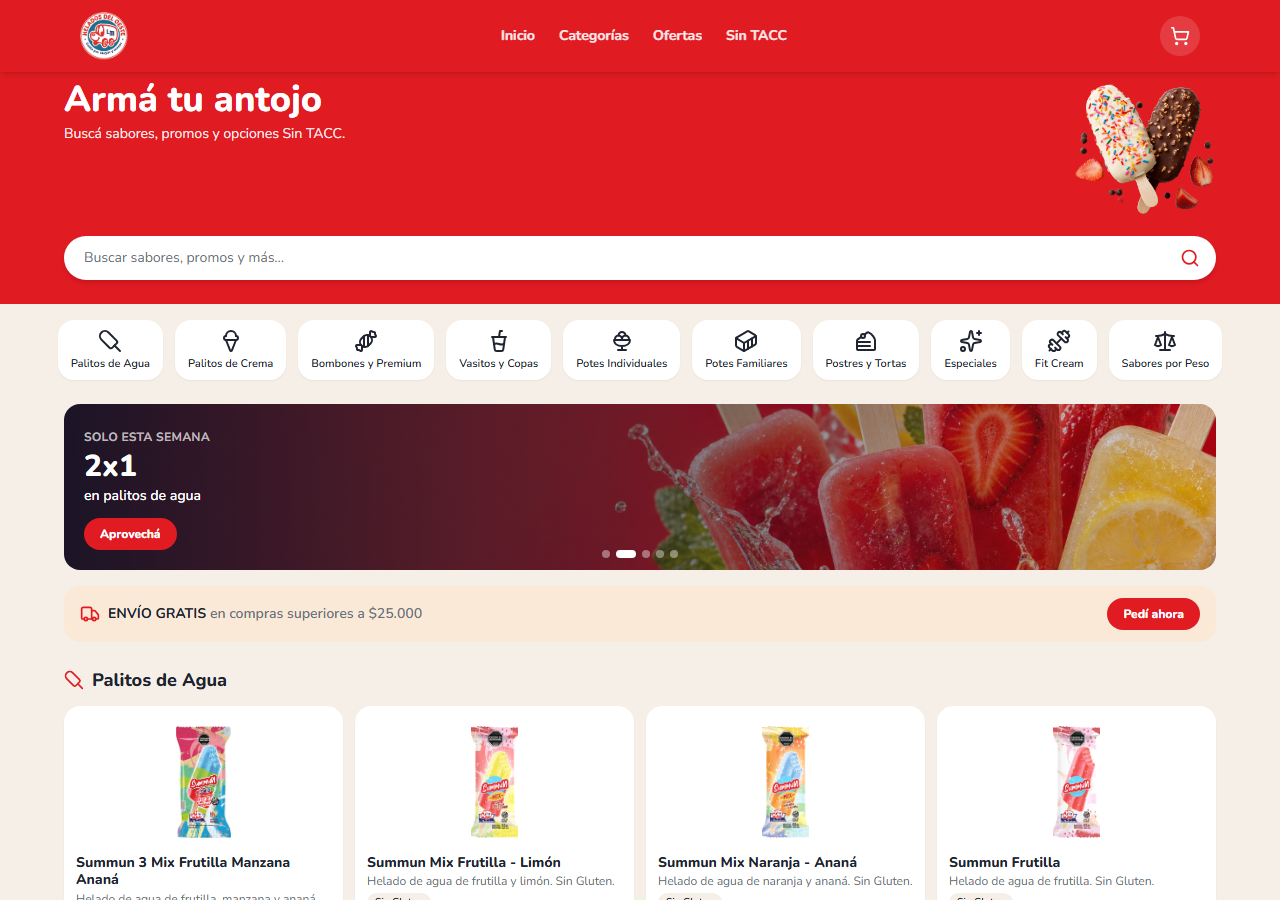
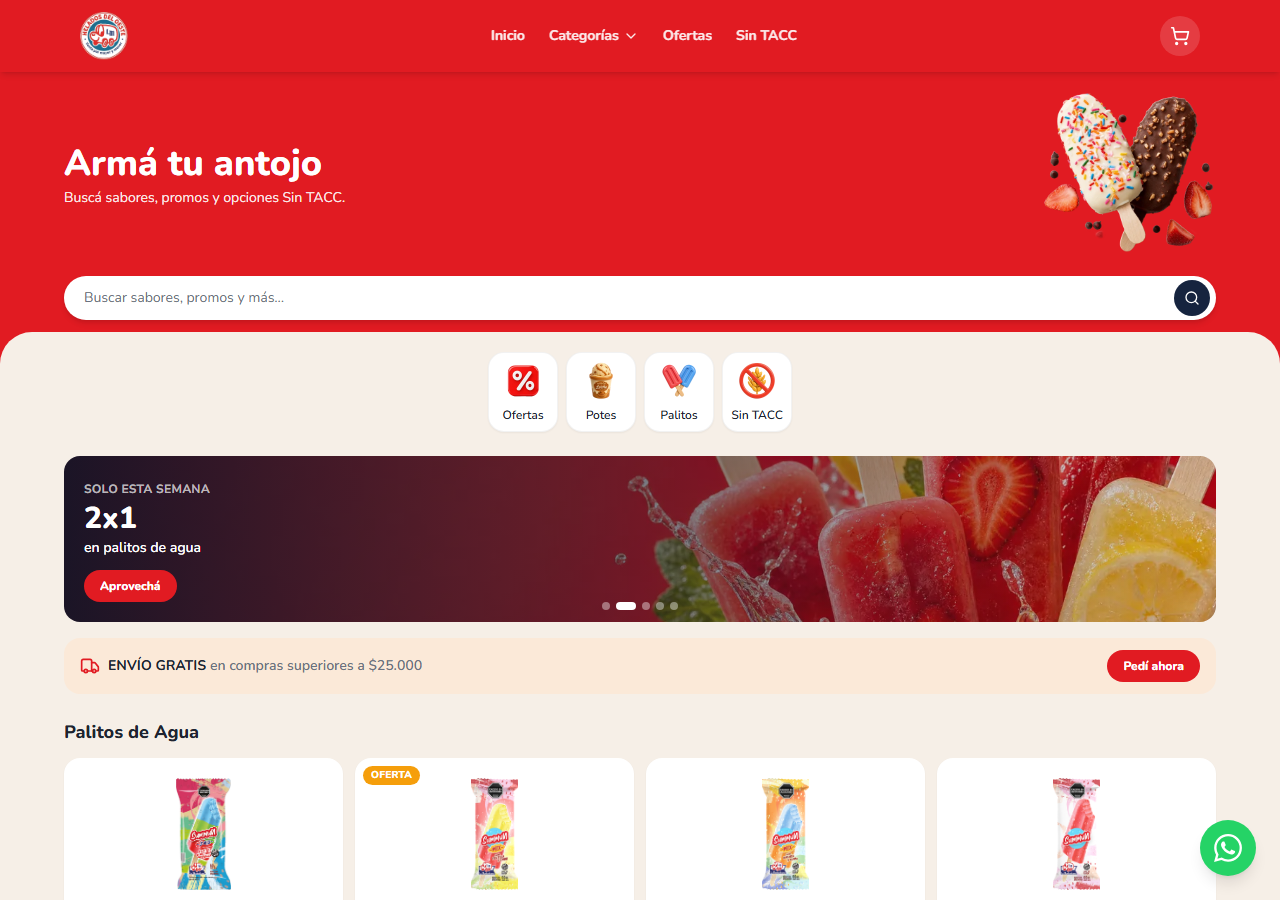
feat: product badges (Más vendido/Nuevo/Oferta) from sheet column L, color-coded; demo badges on sample products

diff --git a/src/components/ProductCard.tsx b/src/components/ProductCard.tsx
@@ -9,15 +9,27 @@ interface Props {
   onAdd: (p: Product) => void;
 }
 
+function badgeColor(badge: string): string {
+  const b = badge.toLowerCase();
+  if (b.includes('vendido')) return 'bg-brand-red';
+  if (b.includes('nuevo')) return 'bg-green-600';
+  if (b.includes('oferta')) return 'bg-amber-500';
+  return 'bg-navy';
+}
+
 export function ProductCard({ product, categoryColor, onAdd }: Props) {
   const soon = product.status === 'proximamente';
   const consulta = isConsulta(product);
 
   return (
     <div className="relative flex flex-col rounded-card bg-cardWhite p-3 shadow-sm">
-      {product.featured && (
-        <span className="absolute left-2 top-2 z-10 rounded-full bg-brand-red px-2 py-0.5 text-[10px] font-extrabold uppercase tracking-wide text-white">
-          Más vendido
+      {product.badge && (
+        <span
+          className={`absolute left-2 top-2 z-10 rounded-full px-2 py-0.5 text-[10px] font-extrabold uppercase tracking-wide text-white ${badgeColor(
+            product.badge,
+          )}`}
+        >
+          {product.badge}
         </span>
       )}
 

diff --git a/src/types/catalog.ts b/src/types/catalog.ts
@@ -11,7 +11,7 @@ export interface Product {
   tags: string[];
   imageUrl: string | null;
   status: ProductStatus;
-  featured: boolean;
+  badge: string | null;
 }
 
 export interface Category {

diff --git a/src/components/ProductCard.test.tsx b/src/components/ProductCard.test.tsx
@@ -15,7 +15,7 @@ const p: Product = {
   tags: ['Sin Gluten'],
   imageUrl: null,
   status: 'activo',
-  featured: true,
+  badge: 'Más vendido',
 };
 
 describe('ProductCard', () => {

diff --git a/src/types/catalog.test.ts b/src/types/catalog.test.ts
@@ -12,7 +12,7 @@ const base: Product = {
   tags: [],
   imageUrl: null,
   status: 'activo',
-  featured: false,
+  badge: null,
 };
 
 describe('isConsulta', () => {

diff --git a/scripts/badges_shot.py b/scripts/badges_shot.py
@@ -1,0 +1,11 @@
+from playwright.sync_api import sync_playwright
+OUT="C:/Users/Ale/Proyectos/Helados-del-oeste/docs/render"
+with sync_playwright() as p:
+    b=p.chromium.launch(headless=True)
+    pg=b.new_page(viewport={"width":1280,"height":2400})
+    pg.goto("http://localhost:5173"); pg.wait_for_load_state("networkidle"); pg.wait_for_timeout(600)
+    # scroll to Bombones (has Bombón Croc! Nuevo) / postres
+    pg.get_by_role("heading", name="Postres y Tortas").scroll_into_view_if_needed()
+    pg.wait_for_timeout(500)
+    pg.screenshot(path=f"{OUT}/badges.png")
+    b.close(); print("done")
